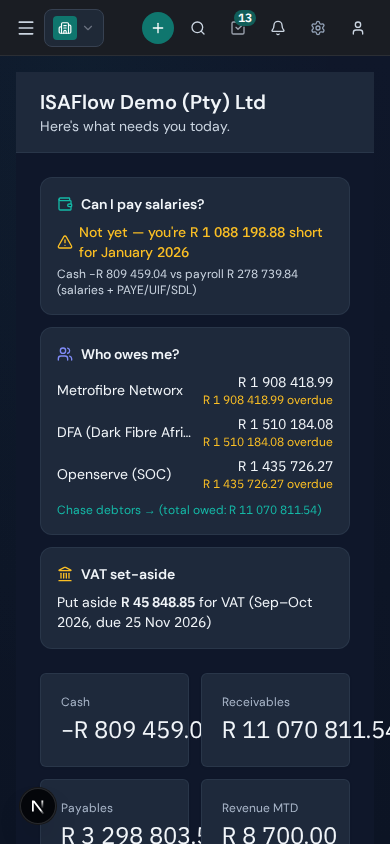
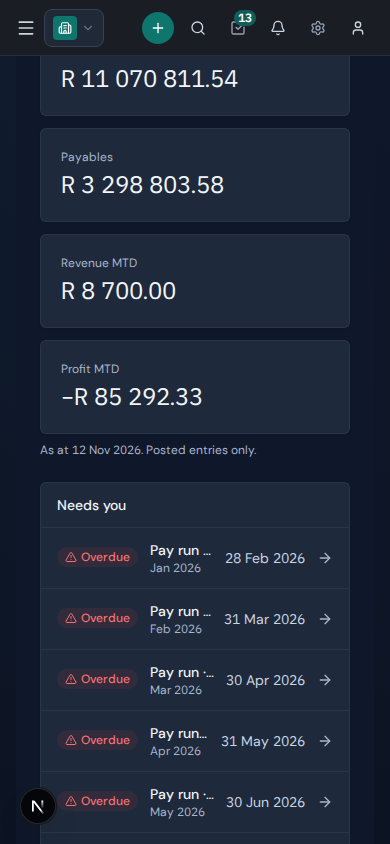
fix(dashboard): review round 1 for one headline definition
- Supplier list "Due this week" filter now selects the headline population
  (open statuses, balance > 0, due today SAST to today + 7), so the
  "Bills due in 7 days" card and the list it opens agree.
- /home metric strip is one column on a phone; figures no longer clip.
- "Chase debtors" and the current-period Month-End Sales card open the
  aged debtors report, whose total is the headline receivables.
- kpi-dashboard reads month-to-date income once for tiles and headline.
- Unloaded KPI cards carry screen-reader text "not loaded".
- Integration fixture pins both ends of the 7-day bill window and asserts
  the list filter equals the card count.
- Em dash removed from bureau services .claude.md (mirror regenerated).

diff --git a/tests/integration/kpi-one-source.int.test.ts b/tests/integration/kpi-one-source.int.test.ts
@@ -17,7 +17,8 @@
  *     both), a year-end closing journal and last month's sale;
  *   counts: a draft bill and a soft-deleted draft invoice (old "Draft invoices"),
  *     12 overdue bills (the Action Items row printed its 10-row cap), a draft, a
- *     paid and a soft-deleted bill due this week (old "AP due this week").
+ *     paid and a soft-deleted bill due this week (old "AP due this week"), and
+ *     bills due on T, T+7 and T+8 and T-1 that pin both ends of the 7-day window.
  * A second company carries its own invoice, journal and bill; no figure of the
  * first moves.
  */
@@ -32,6 +33,7 @@ import { getHeadlineFigures } from '@/modules/accounting/services/reports/headli
 import { clientMetricsSnapshot } from '@/modules/bureau/services/bureauClientMetricsService';
 import { getWorkbenchMetrics } from '@/modules/accounting/services/dashboard/workbenchService';
 import { getMonthEndWorkbench } from '@/modules/accounting/services/workbench/monthEndWorkbenchService';
+import { getSupplierInvoices } from '@/modules/accounting/services/ap/supplierInvoiceQueryService';
 import { clearSystemAccountCache } from '@/modules/accounting/services/gl/systemAccountResolver';
 import kpiDashboardRoute from '../../pages/api/accounting/kpi-dashboard';
 import homeRoute from '../../pages/api/home';
@@ -76,14 +78,14 @@ const EXPECTED = {
   monthStart: MONTH_START,
   cash: 1250, // 1000 bank (T-5) + 200 inactive bank + 50 petty cash
   receivables: { total: 1250, overdue: 1000 },
-  payables: { total: 320, overdue: 120 },
+  payables: { total: 335, overdue: 128 }, // 12 x 10 + 8 (T-1) overdue; + 200, 1, 2, 4 not yet due
   revenueMtd: 400,
   profitMtd: 340, // 400 turnover + 40 other income - 100 rent
   draftInvoices: 1,
   draftBills: 2,
   draftJournals: 2,
-  billsDueNext7Days: 1,
-  billsOverdue: 12,
+  billsDueNext7Days: 3, // due T, T+3 and T+7; T+8 is out
+  billsOverdue: 13, // 12 at T-11 or older, 1 at T-1
 };
 
 let token = '';
@@ -201,6 +203,11 @@ describeIfDb('headline figures: one definition across /accounting, /home and Mon
     await bill(C, SUPP, 'KPB-15', add(3), 400, { status: 'paid', paid: 400 });
     await bill(C, SUPP, 'KPB-16', add(3), 500, { deleted: true });
     await bill(C, SUPP, 'KPB-17', add(60), 600, { status: 'draft' });
+    // The window's edges: today and today + 7 are in, today + 8 is out, yesterday is overdue.
+    await bill(C, SUPP, 'KPB-18', T, 1);
+    await bill(C, SUPP, 'KPB-19', add(7), 2);
+    await bill(C, SUPP, 'KPB-20', add(8), 4);
+    await bill(C, SUPP, 'KPB-21', add(-1), 8);
 
     // The other tenant: an invoice, a posted journal, a draft journal and bills of its own.
     await invoice(D, D_CUST, 'D-1', add(-40), add(-10), 777);
@@ -275,10 +282,16 @@ describeIfDb('headline figures: one definition across /accounting, /home and Mon
     expect(m.unpostedJournals).toBe(EXPECTED.draftJournals);
   });
 
-  it('Action Items: the overdue bill count is the true 12, beside its 10 listed rows', async () => {
+  it('the "Bills due in 7 days" card opens a list of exactly the bills it counts', async () => {
+    const list = await getSupplierInvoices(C, { dueThisWeek: true, limit: 200 });
+    expect(list.total).toBe(EXPECTED.billsDueNext7Days);
+    expect(list.invoices.map((i) => i.invoiceNumber).sort()).toEqual(['KPB-13', 'KPB-18', 'KPB-19']);
+  });
+
+  it('Action Items: the overdue bill count is the true 13, beside its 10 listed rows', async () => {
     const data = await call<{ draftInvoices: number; overdueBillCount: number; pendingSupplierPayments: unknown[] }>(todosRoute);
     expect(data.draftInvoices).toBe(EXPECTED.draftInvoices);
-    expect(data.overdueBillCount).toBe(12);
+    expect(data.overdueBillCount).toBe(EXPECTED.billsOverdue);
     expect(data.pendingSupplierPayments).toHaveLength(10);
   });
 

diff --git a/src/modules/accounting/services/reports/headlineFigures.ts b/src/modules/accounting/services/reports/headlineFigures.ts
@@ -25,7 +25,8 @@ import { todayInSast } from '@/lib/saDateParser';
 import { AP_OPEN_STATUSES } from '@/lib/constants/invoiceStatuses';
 import { getCashBalance } from '../bank/cashBalanceService';
 import { getOpenBook, type OpenBook } from './dashboardOpenBook';
-import { getMtdIncome } from './mtdIncome';
+import { getMtdIncome, type MtdIncome } from './mtdIncome';
+import { DUE_THIS_WEEK_DAYS } from '../ap/supplierInvoiceWhereBuilder';
 
 export interface HeadlineCounts {
   /** Customer invoices in draft, not soft-deleted. */
@@ -34,7 +35,10 @@ export interface HeadlineCounts {
   draftBills: number;
   /** Journal entries in draft, any date. */
   draftJournals: number;
-  /** Open supplier bills with a balance, due from `asAt` to `asAt` + 7 days. */
+  /**
+   * Open supplier bills with a balance, due from `asAt` to `asAt` + 7 days, both ends
+   * included. The supplier list's "Due this week" filter is the same population.
+   */
   billsDueNext7Days: number;
   /** Open supplier bills with a balance, due before `asAt`. */
   billsOverdue: number;
@@ -67,7 +71,7 @@ export async function getHeadlineCounts(companyId: string, asAt: string = todayI
         WHERE company_id = ${companyId}::UUID AND deleted_at IS NULL
           AND status = ANY(${open}::text[])
           AND total_amount - COALESCE(amount_paid, 0) > 0
-          AND due_date >= ${asAt}::DATE AND due_date <= ${asAt}::DATE + 7) AS bills_due_7,
+          AND due_date >= ${asAt}::DATE AND due_date <= ${asAt}::DATE + ${DUE_THIS_WEEK_DAYS}::int) AS bills_due_7,
       (SELECT COUNT(*)::int FROM supplier_invoices
         WHERE company_id = ${companyId}::UUID AND deleted_at IS NULL
           AND status = ANY(${open}::text[])
@@ -94,17 +98,17 @@ export async function countDraftJournals(companyId: string, datedUpTo?: string):
   return Number(rows[0]?.cnt ?? 0);
 }
 
-/** `books`: the AR and AP open books when the caller already read them at the same `asAt`. */
+/** `books` and `mtd`: the open books and month-to-date income when the caller already read them at the same `asAt`. */
 export async function getHeadlineFigures(
   companyId: string,
   asAt: string = todayInSast(),
-  opts: { books?: { ar: OpenBook; ap: OpenBook } } = {},
+  opts: { books?: { ar: OpenBook; ap: OpenBook }; mtd?: MtdIncome } = {},
 ): Promise<HeadlineFigures> {
   const [cash, ar, ap, income, counts] = await Promise.all([
     getCashBalance(companyId, asAt),
     opts.books ? opts.books.ar : getOpenBook(companyId, 'ar', asAt),
     opts.books ? opts.books.ap : getOpenBook(companyId, 'ap', asAt),
-    getMtdIncome(companyId, asAt),
+    opts.mtd ?? getMtdIncome(companyId, asAt),
     getHeadlineCounts(companyId, asAt),
   ]);
   return {

diff --git a/pages/api/accounting/kpi-dashboard.ts b/pages/api/accounting/kpi-dashboard.ts
@@ -23,6 +23,7 @@ import {
 } from '@/modules/accounting/services/reports/kpiService';
 import { getOpenBook } from '@/modules/accounting/services/reports/dashboardOpenBook';
 import { getHeadlineFigures } from '@/modules/accounting/services/reports/headlineFigures';
+import { getMtdIncome } from '@/modules/accounting/services/reports/mtdIncome';
 import { hasBankAccount } from '@/modules/accounting/services/bank/hasBankAccountService';
 
 async function handler(req: NextApiRequest, res: NextApiResponse) {
@@ -51,18 +52,20 @@ async function handler(req: NextApiRequest, res: NextApiResponse) {
     const months = Math.max(1, Math.min(Number(req.query.months) || 6, 120));
 
     // Each side of the open book is read once and feeds both its tile and its
-    // donut: they are one figure by construction, and one query's cost.
-    const [arBook, apBook] = await Promise.all([
+    // donut: they are one figure by construction, and one query's cost. The
+    // month-to-date income is read once too, for the KPI tiles and the headline.
+    const [arBook, apBook, mtd] = await Promise.all([
       getOpenBook(companyId, 'ar', today),
       getOpenBook(companyId, 'ap', today),
+      getMtdIncome(companyId, today),
     ]);
 
     const [kpis, headline, revenueChart, cashFlowChart, arAging, apAging, topCustomers, topExpenses, bankConfigured] =
       await Promise.all([
-        getDashboardKPIs(companyId, from, to, today, { ar: arBook, ap: apBook }),
+        getDashboardKPIs(companyId, from, to, today, { ar: arBook, ap: apBook }, mtd),
         // The headline figures (cash, receivables, revenue MTD, counts): the one
         // definition /home and Month-End read too, as at the same SAST day.
-        getHeadlineFigures(companyId, today, { books: { ar: arBook, ap: apBook } }),
+        getHeadlineFigures(companyId, today, { books: { ar: arBook, ap: apBook }, mtd }),
         getRevenueChart(companyId, months, today),
         getCashFlowChart(companyId, months),
         getAgingBreakdown(companyId, 'ar', today, arBook),

diff --git a/src/modules/accounting/services/reports/kpiDashboardService.ts b/src/modules/accounting/services/reports/kpiDashboardService.ts
@@ -11,7 +11,7 @@ import { BANK_SUBTYPES } from '../gl/accountSubtypes';
 import { todayInSast } from '@/lib/saDateParser';
 import { getOpenBook, type OpenBook } from './dashboardOpenBook';
 import { revenueBand } from '../gl/accountClassification';
-import { getMtdIncome } from './mtdIncome';
+import { getMtdIncome, type MtdIncome } from './mtdIncome';
 import { YEAR_END_JOURNAL_SOURCE } from '@/modules/accounting/services/gl/yearEndJournalSource';
 
 
@@ -44,13 +44,15 @@ export interface OpenBooks { ar: OpenBook; ap: OpenBook }
  * `todayStr` is the SAST app date the Receivables / Payables tiles are as at
  * (reports/dashboardOpenBook), never the UTC session's CURRENT_DATE. `books`
  * are those tiles' open books when the caller already has them; without them
- * they are read here.
+ * they are read here. `mtd` is the month-to-date income as at `todayStr` when the
+ * caller already read it (the route shares it with the headline figures).
  */
 export async function getDashboardKPIs(companyId: string,
   fromDate: string,
   toDate: string,
   todayStr: string = todayInSast(),
   books?: OpenBooks,
+  mtd?: MtdIncome,
 ): Promise<DashboardKPIs> {
   try {
     const from = new Date(fromDate);
@@ -183,7 +185,7 @@ export async function getDashboardKPIs(companyId: string,
           AND entry_date >= ${fromDate} AND entry_date <= ${toDate}
       `,
       // Revenue MTD: the headline figure's one definition (reports/mtdIncome).
-      getMtdIncome(companyId, todayStr),
+      mtd ?? getMtdIncome(companyId, todayStr),
     ]);
 
     // Revenue is TURNOVER, as the income statement's Revenue line: the other-income

diff --git a/src/modules/accounting/services/ap/supplierInvoiceWhereBuilder.ts b/src/modules/accounting/services/ap/supplierInvoiceWhereBuilder.ts
@@ -6,6 +6,8 @@
  */
 
 import { sql } from '@/lib/neon';
+import { todayInSast } from '@/lib/saDateParser';
+import { AP_OPEN_STATUSES } from '@/lib/constants/invoiceStatuses';
 import type { InvoiceFilters, SupplierInvoiceSort } from './supplierInvoiceQueryService';
 
 // Lookahead windows used in payment-eligibility predicates.
@@ -97,10 +99,18 @@ export function buildInvoiceWhere(companyId: string, f: InvoiceFilters | undefin
     );
   }
   if (f?.dueThisWeek) {
+    // The same population as the headline "Bills due in 7 days" count
+    // (reports/headlineFigures#getHeadlineCounts), so the card and the list it
+    // opens agree: open bills with a balance, due from today (SAST) to today + 7.
+    values.push(Array.from(AP_OPEN_STATUSES));
+    const statuses = values.length;
+    values.push(todayInSast());
+    const today = values.length;
     conds.push(
-      'si.due_date IS NOT NULL'
-      + ` AND si.due_date <= CURRENT_DATE + INTERVAL '${DUE_THIS_WEEK_DAYS} days'`
-      + " AND si.status NOT IN ('paid', 'cancelled')",
+      `si.status = ANY($${statuses}::text[])`
+      + ' AND si.total_amount - COALESCE(si.amount_paid, 0) > 0'
+      + ` AND si.due_date >= $${today}::date`
+      + ` AND si.due_date <= $${today}::date + ${DUE_THIS_WEEK_DAYS}`,
     );
   }
   if (f?.payRunReady) {

diff --git a/tests/integration/month-end-ar-parity.int.test.ts b/tests/integration/month-end-ar-parity.int.test.ts
@@ -118,7 +118,7 @@ describeIfDb('month-end Sales card is the headline receivables figure', () => {
     expect((await getAROutstandingSummary(COMPANY)).outstanding).toBeCloseTo(OUTSTANDING, 2);
     expect(sales.secondary).toBe(`${formatMoney(OUTSTANDING - NOT_ISSUED_BAL)} outstanding · 1 customers · as at ${formatDisplayDate(today)}`);
     expect((await getARAging(COMPANY, fmtDate(now))).length).toBe(1);
-    expect(sales.href).toBe('/accounting/debtors-manager');
+    expect(sales.href).toBe('/accounting/ar-aging');
   });
 
   it('a period ending today is current (>= today), one ending yesterday is past', async () => {

diff --git a/src/modules/accounting/services/workbench/monthEndLedgerCards.ts b/src/modules/accounting/services/workbench/monthEndLedgerCards.ts
@@ -56,8 +56,8 @@ export async function buildSalesCard(companyId: string, periodEnd: string): Prom
     status,
     primary: `${fmtR(overdue)} overdue`,
     secondary: `${fmtR(total)} outstanding · ${parties} customers · as at ${formatDisplayDate(asAt)}`,
-    // debtors-manager has no as-at date; the aged debtors report does.
-    href: past ? `/accounting/ar-aging?as_at_date=${periodEnd}` : '/accounting/debtors-manager',
+    // The aged debtors report is the population this card totals (debtors-manager is not).
+    href: past ? `/accounting/ar-aging?as_at_date=${periodEnd}` : '/accounting/ar-aging',
   };
 }
 

diff --git a/tests/unit/services/kpiDashboardHandler.test.ts b/tests/unit/services/kpiDashboardHandler.test.ts
@@ -270,6 +270,12 @@ describe('kpi-dashboard handler', () => {
     expect(h.apCalls).toBe(1);
   });
 
+  it('reads the month-to-date income once, for the tiles and the headline', async () => {
+    await call();
+    const mtd = h.queries.filter((q) => q.text.includes("account_type IN ('revenue', 'expense')") && !q.text.includes('generate_series'));
+    expect(mtd).toHaveLength(1);
+  });
+
   it('the Overdue tile is the overdue donut slices plus the overdue disputed share', async () => {
     const out = await call();
     const slice = (name: string) => out.arAging.find((b) => b.name === name)!.value;

diff --git a/src/components/invoices/APFilters.tsx b/src/components/invoices/APFilters.tsx
@@ -4,7 +4,7 @@
  * Chips (multi-select, persist in URL via useSupplierInvoiceListState):
  *   - Missing document  — source_document_id IS NULL
  *   - Possible duplicate — same supplier + same invoice_number in the same company
- *   - Due this week     — due_date <= today + 7 days, not paid or cancelled
+ *   - Due this week: approved/partially_paid, balance > 0, due today (SAST) to today + 7
  *   - Pay run ready     — approved/partially_paid, balance > 0, due within 14 days
  *
  * Each chip delegates state management upwards via onToggle(chip) so this

diff --git a/src/components/bureau/ClientHomeView.tsx b/src/components/bureau/ClientHomeView.tsx
@@ -31,7 +31,7 @@ export function ClientHomeView({ metrics, workItems, onOpenItem }: ClientHomeVie
     <div className="p-6 space-y-6">
       {/* Metric strip: the headline figures, as at one date */}
       <div className="space-y-2">
-        <div className="grid grid-cols-2 md:grid-cols-3 lg:grid-cols-5 gap-3">
+        <div className="grid grid-cols-1 sm:grid-cols-2 md:grid-cols-3 lg:grid-cols-5 gap-3">
           {METRIC_CARDS.map((m) => (
             <Card key={m.key}>
               <div className="text-xs text-[var(--ff-text-tertiary)]">{m.label}</div>

diff --git a/tests/unit/components/kpiFailedLoadShowsDash.test.tsx b/tests/unit/components/kpiFailedLoadShowsDash.test.tsx
@@ -47,6 +47,8 @@ describe('KPI cards with no figures', () => {
     expect(screen.queryByText(/change/)).toBeNull();
     for (const title of ['Revenue', 'Net Profit', 'Cash', 'Receivables']) expect(screen.getByText(title)).toBeTruthy();
     expect(container.querySelectorAll('span.tabular-nums').length).toBe(4);
+    // A screen reader hears why each card has no figure.
+    expect(screen.getAllByText('not loaded')).toHaveLength(4);
     fireEvent.click(screen.getByRole('button', { name: 'Retry' }));
     expect(onRetry).toHaveBeenCalledTimes(1);
   });

diff --git a/src/components/home/OwnerCashPanel.tsx b/src/components/home/OwnerCashPanel.tsx
@@ -67,8 +67,8 @@ function DebtorsSection({ pos }: { pos: OwnerCashPosition }) {
         </div>
       ))}
       <Link
-        href="/accounting/debtors-manager"
-        aria-label="View all debtors in the debtors manager"
+        href="/accounting/ar-aging"
+        aria-label="View all debtors in the aged debtors report"
         className="block text-xs text-teal-500 hover:text-teal-400 pt-1"
       >
         Chase debtors → (total owed: <Money amount={pos.arTotal} />)
